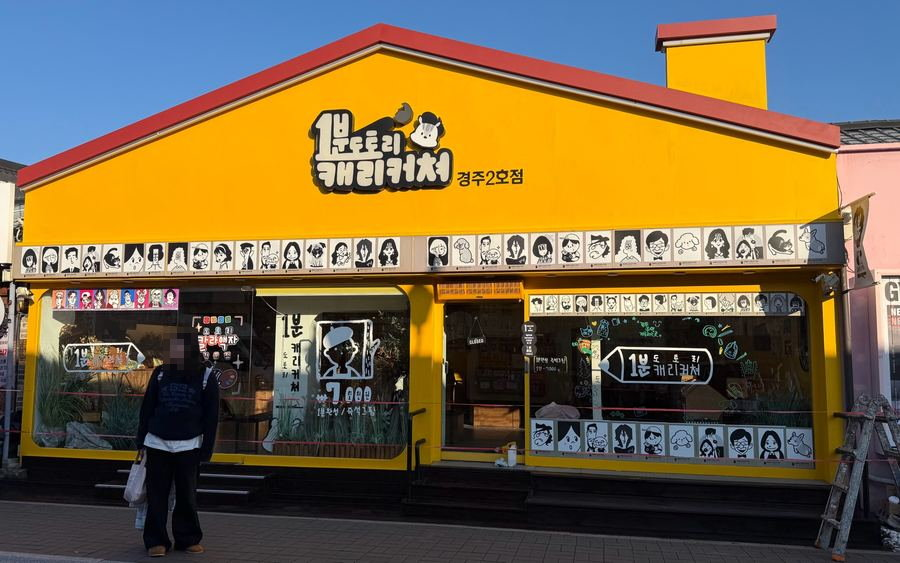
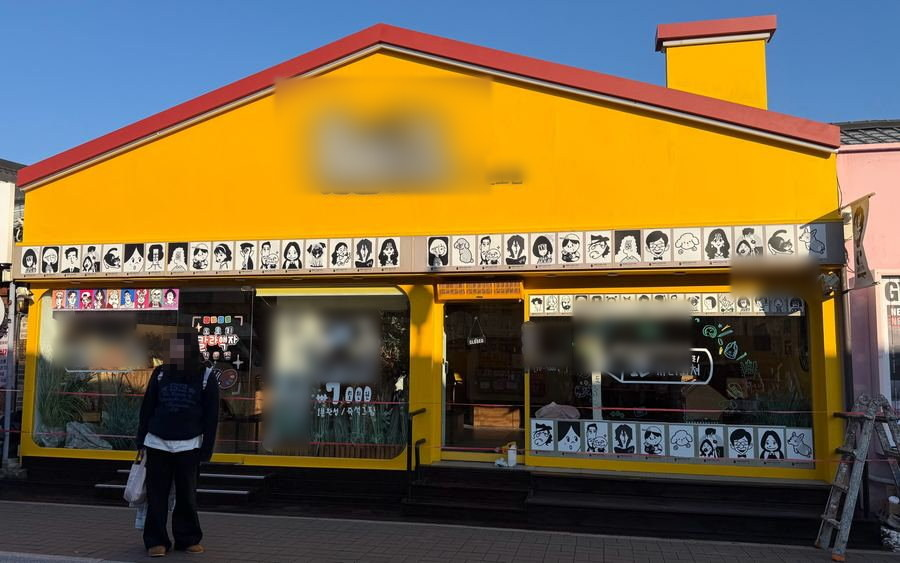
시공사례: 경주 상가 카페 외벽 도장 사례 추가(전체 6건) — 간판·지점명 개인정보 모자이크 반영

diff --git a/cases.html b/cases.html
@@ -4,11 +4,11 @@
 <meta charset="utf-8">
 <meta name="viewport" content="width=device-width, initial-scale=1, viewport-fit=cover">
 <meta name="theme-color" content="#1B2A4A">
-<title>시공사례 전체보기 — 경주 도장·방수 5건 | 제일페인트</title>
-<meta name="description" content="경주 제일페인트가 직접 시공한 현장 5건을 모았습니다. 주택 슬레이트 기와 지붕 도장, 아파트 지붕 방수·주차라인 도색, 상가 외벽 도장·크랙 보수, 산업시설 옥상 우레탄 방수, 공공시설 지붕 실란트. 지붕·옥상 방수 / 외벽·실란트 / 주차라인 / 주택·상가·공공으로 골라 보세요.">
+<title>시공사례 전체보기 — 경주 도장·방수 6건 | 제일페인트</title>
+<meta name="description" content="경주 제일페인트가 직접 시공한 현장 6건을 모았습니다. 주택 슬레이트 기와 지붕 도장, 아파트 지붕 방수·주차라인 도색, 상가 외벽 도장·크랙 보수, 카페 외벽 하도·에어리스 도장, 산업시설 옥상 우레탄 방수, 공공시설 지붕 실란트. 지붕·옥상 방수 / 외벽·실란트 / 주차라인 / 주택·상가·공공으로 골라 보세요.">
 <meta property="og:type" content="website">
-<meta property="og:title" content="시공사례 전체보기 — 경주 도장·방수 5건 | 제일페인트">
-<meta property="og:description" content="경주 도장·방수 시공 현장 5건. 지붕·옥상 방수, 외벽·실란트, 주차라인, 주택·상가·공공 카테고리별로 확인하세요.">
+<meta property="og:title" content="시공사례 전체보기 — 경주 도장·방수 6건 | 제일페인트">
+<meta property="og:description" content="경주 도장·방수 시공 현장 6건. 지붕·옥상 방수, 외벽·실란트, 주차라인, 주택·상가·공공 카테고리별로 확인하세요.">
 <meta property="og:locale" content="ko_KR">
 <link rel="canonical" href="https://ekzm0230-png.github.io/jaeilpaint/cases.html">
 <meta property="og:url" content="https://ekzm0230-png.github.io/jaeilpaint/cases.html">
@@ -221,7 +221,7 @@ ul,ol{list-style:none;margin:0;padding:0}
   <div class="wrap">
     <p class="kicker">제일페인트 · 시공사례</p>
     <h1>시공사례 전체보기</h1>
-    <p class="lead">제일페인트가 <b>직접 시공한 경주 현장 5건</b>입니다.<br>지붕·옥상 방수부터 외벽 도장, 주차라인 도색, 실란트 보수까지 — 아래 카테고리를 눌러 원하는 작업만 골라 보세요.</p>
+    <p class="lead">제일페인트가 <b>직접 시공한 경주 현장 6건</b>입니다.<br>지붕·옥상 방수부터 외벽 도장, 주차라인 도색, 실란트 보수까지 — 아래 카테고리를 눌러 원하는 작업만 골라 보세요.</p>
     <ul class="stats">
       <li><b>5</b><span>시공 현장</span></li>
       <li><b>4</b><span>작업 분야</span></li>
@@ -232,18 +232,18 @@ ul,ol{list-style:none;margin:0;padding:0}
 
 <nav class="tabs" aria-label="시공사례 카테고리 필터">
   <div class="wrap">
-    <button class="tab" type="button" data-filter="all" aria-pressed="true">전체<i>5</i></button>
+    <button class="tab" type="button" data-filter="all" aria-pressed="true">전체<i>6</i></button>
     <button class="tab" type="button" data-filter="roof" aria-pressed="false">지붕·옥상 방수<i>3</i></button>
-    <button class="tab" type="button" data-filter="wall" aria-pressed="false">외벽·실란트<i>2</i></button>
+    <button class="tab" type="button" data-filter="wall" aria-pressed="false">외벽·실란트<i>3</i></button>
     <button class="tab" type="button" data-filter="parking" aria-pressed="false">주차라인<i>1</i></button>
-    <button class="tab" type="button" data-filter="res" aria-pressed="false">주택·상가·공공<i>3</i></button>
+    <button class="tab" type="button" data-filter="res" aria-pressed="false">주택·상가·공공<i>4</i></button>
   </div>
 </nav>
 
 <main>
   <section class="section" id="case-list">
     <div class="wrap">
-      <p class="filter-note" id="filter-note" role="status" aria-live="polite"><b>전체 5건</b>을 보여 드립니다.</p>
+      <p class="filter-note" id="filter-note" role="status" aria-live="polite"><b>전체 6건</b>을 보여 드립니다.</p>
 
       <div class="cases" id="cases">
         <article class="case wide" id="case-slate-roof" data-cat="roof res">
@@ -291,6 +291,23 @@ ul,ol{list-style:none;margin:0;padding:0}
               <li>벽체 세척·샌딩</li>
               <li>크랙 보수</li>
               <li>지정 색상 도장</li>
+            </ul>
+          </div>
+        </article>
+
+        <article class="case" id="case-cafe" data-cat="wall res">
+          <div class="case-media duo">
+            <img src="./assets/cases/cafe-facade-before.jpg" width="900" height="506" alt="보양과 고소작업차로 카페 외벽을 도장하는 시공 중 전경" loading="lazy">
+            <img src="./assets/cases/cafe-facade-after.jpg" width="900" height="506" alt="상하 두 가지 색으로 도장을 마친 카페 외벽 정면 전경" loading="lazy">
+          </div>
+          <div class="case-body">
+            <p class="case-kind">상가 카페 · 외벽</p>
+            <h3>경주 상가 카페 외벽 도장 공사</h3>
+            <p>창호·출입문을 비닐로 보양하고 하도 작업을 거친 뒤, 에어리스 도장기로 외벽 상부와 하부를 두 가지 색으로 나눠 도장했습니다. 높은 구간은 고소작업차로 작업해 하루 만에 마감했습니다.</p>
+            <ul class="tags">
+              <li>창호·출입문 보양</li>
+              <li>하도 · 에어리스 도장</li>
+              <li>상하 2톤 마감</li>
             </ul>
           </div>
         </article>
@@ -423,14 +440,15 @@ ul,ol{list-style:none;margin:0;padding:0}
       {"@type":"ListItem","position":2,"name":"경주 동천동 아파트 지붕 방수 · 주차라인 도색","url":"https://ekzm0230-png.github.io/jaeilpaint/cases.html#case-dongcheon"},
       {"@type":"ListItem","position":3,"name":"경주 상가 건물 외벽 도장 · 크랙 보수","url":"https://ekzm0230-png.github.io/jaeilpaint/cases.html#case-commercial"},
       {"@type":"ListItem","position":4,"name":"경주 산업시설 옥상 우레탄 방수 시공","url":"https://ekzm0230-png.github.io/jaeilpaint/cases.html#case-industrial"},
-      {"@type":"ListItem","position":5,"name":"경주 외동읍 공공시설 지붕 실란트 시공","url":"https://ekzm0230-png.github.io/jaeilpaint/cases.html#case-oedong"}
+      {"@type":"ListItem","position":5,"name":"경주 상가 카페 외벽 도장 공사","url":"https://ekzm0230-png.github.io/jaeilpaint/cases.html#case-cafe"},
+      {"@type":"ListItem","position":6,"name":"경주 외동읍 공공시설 지붕 실란트 시공","url":"https://ekzm0230-png.github.io/jaeilpaint/cases.html#case-oedong"}
     ]
   }
 }
 </script>
 
 <script>
-/* 카테고리 필터 — 자바스크립트가 없어도 5건이 모두 보이도록 기본은 전체 노출입니다. */
+/* 카테고리 필터 — 자바스크립트가 없어도 6건이 모두 보이도록 기본은 전체 노출입니다. */
 (function () {
   var tabs = Array.prototype.slice.call(document.querySelectorAll('.tab'));
   var cards = Array.prototype.slice.call(document.querySelectorAll('#cases .case'));

diff --git a/index.html b/index.html
@@ -508,7 +508,7 @@ h1{margin:0 0 20px;font-size:clamp(1.7rem,3.6vw,2.5rem);line-height:1.36;font-we
       </div>
 
       <div class="cases-more">
-        <a class="btn btn-navy btn-more" href="./cases.html">시공사례 전체보기 (5건) →</a>
+        <a class="btn btn-navy btn-more" href="./cases.html">시공사례 전체보기 (6건) →</a>
         <p class="cases-more-note">공공시설·산업시설까지 5개 현장을 지붕·옥상 방수 / 외벽·실란트 / 주차라인 / 주택·상가·공공으로 나눠 모았습니다.</p>
       </div>
     </div>
